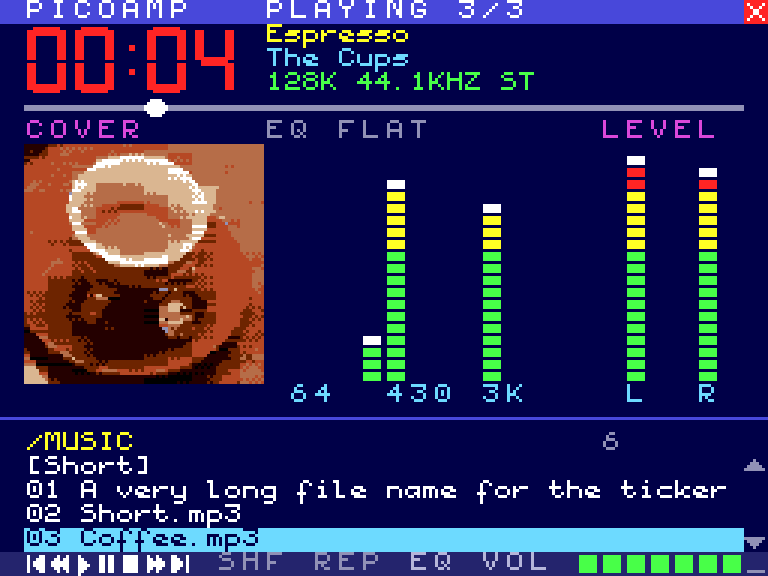
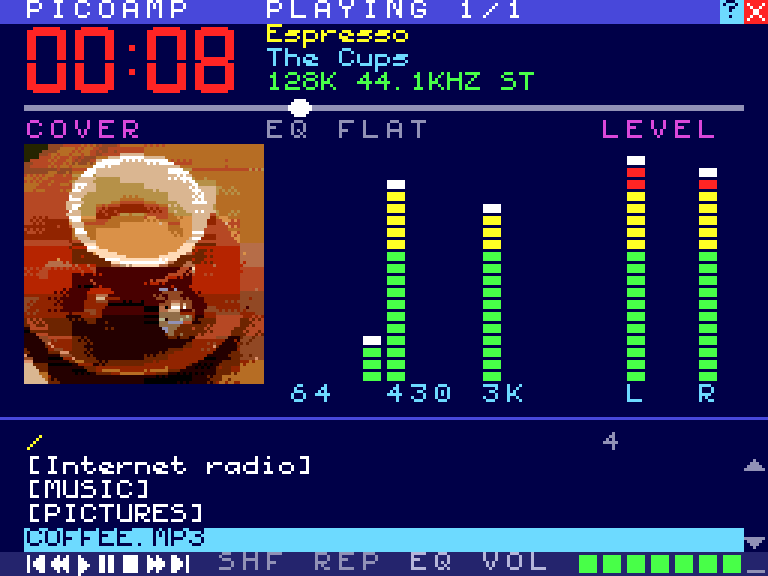
README: v1.5 (pictures, covers), screenshots
Claude-Session: https://claude.ai/code/session_01TWKbZ4F4GzuPE8baaKTjbq

diff --git a/README.md b/README.md
@@ -16,7 +16,7 @@ https://www.youtube.com/embed/hVLpiqQKfts?si=i2GK5ZjUDZk3-P4l
 | What | For | What it is |
 |------|-----|------------|
 | **PicoVerse Audio Engine** | RP2350 firmware | Decoding (MP3/WAV), internet radio, the Radio Browser station directory, a 5-band equalizer, the spectrum/VU/scope data, the time of day, the place, the weather and forecast, news feeds and full articles from the internet, a sleep timer and a radio alarm, the settings file. The MSX talks to it through a 4 KB memory window |
-| **PICOAMP** | MSX2 | A full-screen Winamp/MUBScope-style player: a 24-band spectrum analyser, oscilloscope, equalizer screen, full-screen pictures, station search, favourites, a clock page (digital or analog, internet time, place, weather, sleep timer, alarm), an animated weather page, an 80-column news reader, a SCREEN 8 picture browser, slideshow and screensaver for JPEGs on the card (ROM), mouse, help page. Two builds: `PICOAMP.COM` (MSX-DOS 2 / Nextor) and `PICOAMP.ROM` (a cartridge ROM that boots straight into the player) |
+| **PICOAMP** | MSX2 | A full-screen Winamp/MUBScope-style player: a 24-band spectrum analyser, oscilloscope, equalizer screen, full-screen pictures, station search, favourites, covers (from the file, its folder or online), a clock page (digital or analog, internet time, place, weather, sleep timer, alarm), an animated weather page, an 80-column news reader, a SCREEN 8 picture browser, slideshow and screensaver for JPEGs on the card (ROM), mouse, help page. Two builds: `PICOAMP.COM` (MSX-DOS 2 / Nextor) and `PICOAMP.ROM` (a cartridge ROM that boots straight into the player) |
 | **PicoPlay** | SymbOS 4.0 | A windowed player with folders, play lists, internet radio, the station directory, favourites and an equalizer |
 | **PVTEST** | MSX-DOS | A quick check of the cartridge from the prompt, and a small player |
 
@@ -27,6 +27,22 @@ https://www.youtube.com/embed/hVLpiqQKfts?si=i2GK5ZjUDZk3-P4l
 | Weather (W) | News (T) |
 |---|---|
 | <img width="2000" height="1500" alt="WhatsApp Image 2026-10-30 at 15 24 11" src="https://github.com/user-attachments/assets/0310b504-c6c6-4eab-aabf-4a06c1766a72" /> | <img width="2000" height="1500" alt="WhatsApp Image 2026-10-30 at 13 08 34" src="https://github.com/user-attachments/assets/f1b99f3c-fd99-4abc-b139-31da34824565" /> |
+
+**v1.5** (engine 0.17; tried on a PicoVerse 2350 as the cartridge ROM): pictures and covers.
+**I** opens a picture browser for the JPEGs on the card (folders and pictures only): Enter shows
+one full screen in SCREEN 8 (256 colours, dithered, any size of baseline JPEG, the music plays
+on), Space marks pictures and **G** plays the marked ones (or the folder) as a slideshow, in
+order or shuffled. The same slideshow is a screensaver after 1 to 30 minutes without a key. The
+cover view (**V**) shows the track's cover: the picture in the MP3 or its folder, a station's
+logo and the song that plays on it, or an album's cover found online (Radio Browser, iTunes,
+through the wsrv.nl image proxy, kept on the card), else one of three default pictures; the
+small cover now has its own colours for each row of cells. **Z** then COVER shows it big in
+SCREEN 8. The pictures, the screensaver and the big cover are `PICOAMP.ROM` only. See
+`picoamp/README.md`, sections Pictures and Cover.
+
+| Pictures (I) | A picture | The cover (V) | The cover full screen (Z) |
+|---|---|---|---|
+| ![Pictures](picoamp/images/picoamp_pictures.png) | ![A picture](picoamp/images/picoamp_picture.png) | ![Cover](picoamp/images/picoamp_cover.png) | ![Full cover](picoamp/images/picoamp_fullcover.png) |
 
 **v1.4** (engine 0.13; the colours, the member lists, the chart and its headlines tried on a PicoVerse 2350, the
 chart's scales and ranges, the order by percent and the tape so far in the host test and the Z80 harness only): **$** opens a market monitor in 80 columns, after the idea of the
@@ -65,21 +81,21 @@ colours that turn with the music, a small spectrum. The choices are kept in
 
 PicoAmp v1.0 is also published as third-party firmware in the PicoVerse repository:
 [`firmware/third-party/2350/picoamp_by_Jzzy_v1.0.uf2`](https://github.com/cristianoag/msx-picoverse-public/tree/main/firmware/third-party/2350)
-(v1.0; `bin/picoamp_wifi.uf2` here is v1.4).
+(v1.0; `bin/picoamp_wifi.uf2` here is v1.5).
 
 ## Downloads (`bin/`)
 
 | File | What |
 |------|------|
 | `picoamp_wifi.uf2` | **PicoAmp**: flash it and the MSX2 boots into PICOAMP. With the ESP-01 WiFi (internet radio) |
-| `picoamp.uf2` | the same without WiFi |
+| `picoamp.uf2` | the same without WiFi (still v1.4) |
 | `picoplay_wifi.uf2` | **PicoPlay** firmware: Nextor (Sunrise IDE on the microSD), the 1 MB mapper, the engine and the WiFi, for SymbOS / MSX-DOS with `PICOPLAY.EXE`, `PICOAMP.COM`, `PVTEST.COM` |
-| `picoplay.uf2` | the same without WiFi |
-| `PICOAMP.COM`, `PICOAMP.ROM` | the MSX2 player for MSX-DOS, and as a cartridge ROM (64 KB: four banks, the program and its clock, weather, news and markets pages) |
+| `picoplay.uf2` | the same without WiFi (still v1.4) |
+| `PICOAMP.COM`, `PICOAMP.ROM` | the MSX2 player for MSX-DOS, and as a cartridge ROM (64 KB: four banks, the program and its clock, weather, news, markets and pictures pages) |
 | `PICOPLAY.EXE` | the SymbOS player |
 | `PVTEST.COM` | the MSX-DOS test tool |
 | `RADIO.M3U` | a few internet radio stations to start with |
-| `loadrom.exe` | Cristiano's LoadROM tool (Windows) with the two extra modes: `-pa` PicoAmp, `-p1` PicoPlay (add `-w` for WiFi). Still v1.2 (it builds the v1.2 firmware): use the `.uf2` files here for v1.4 |
+| `loadrom.exe` | Cristiano's LoadROM tool (Windows) with the two extra modes: `-pa` PicoAmp, `-p1` PicoPlay (add `-w` for WiFi). It builds the v1.5 firmware |
 | `SHA256SUMS` | checksums |
 
 Flash a `.uf2` as any PicoVerse firmware: hold BOOTSEL, plug in USB, and copy the file to the
@@ -103,7 +119,7 @@ the ESP-01 must already know your access point (as for the Nextor WiFi tools).
 
 | Folder | What |
 |--------|------|
-| `engine/` | the PicoVerse Audio Engine (`pva_*.c`), with its PC test (`tests/`: a simulated ESP-01, radio servers, the Radio Browser API, ip-api.com, Open-Meteo and news feeds and the full articles, 383 checks) |
+| `engine/` | the PicoVerse Audio Engine (`pva_*.c`), with its PC test (`tests/`: a simulated ESP-01, radio servers, the Radio Browser API, ip-api.com, Open-Meteo and news feeds and the full articles, Yahoo Finance, iTunes and the wsrv.nl image proxy, 538 checks) |
 | `picoamp/` | PICOAMP (Z80, sjasmplus) and its clock, weather and news pages (`clock.asm`, `weather.asm`, `news.asm`, page modules), its Z80 test harness, screen tools and mock-ups |
 | `picoplay/` | PicoPlay (SymbOS C Compiler) and PVTEST (sjasmplus), their PC tests, and an openMSX device that runs the engine (`emu/`) |
 | `devrig/` | a headless openMSX test bench (NMS 8245 + the cartridge's slot layout). The system ROMs it needs are not included |

diff --git a/picoamp/README.md b/picoamp/README.md
@@ -369,6 +369,10 @@ few seconds); progressive JPEGs are refused with a message (most cameras and
 phones write baseline ones). The engine borrows the cover's memory while a
 picture is decoded, and draws the cover again afterwards.
 
+| The browser | A picture |
+|---|---|
+| ![Pictures](images/picoamp_pictures.png) | ![A picture](images/picoamp_picture.png) |
+
 | Key | Action |
 |-----|--------|
 | Up / Down, Left / Right | Choose (Left/Right a page) |
